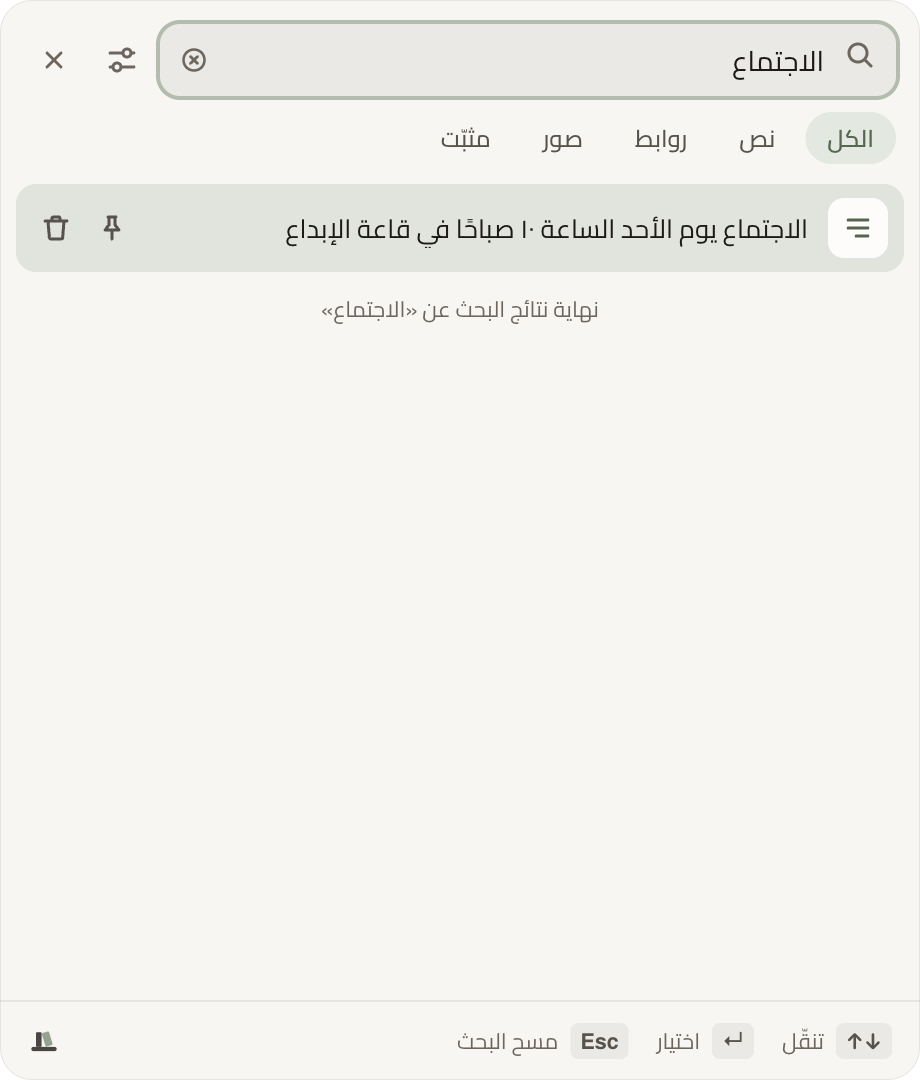
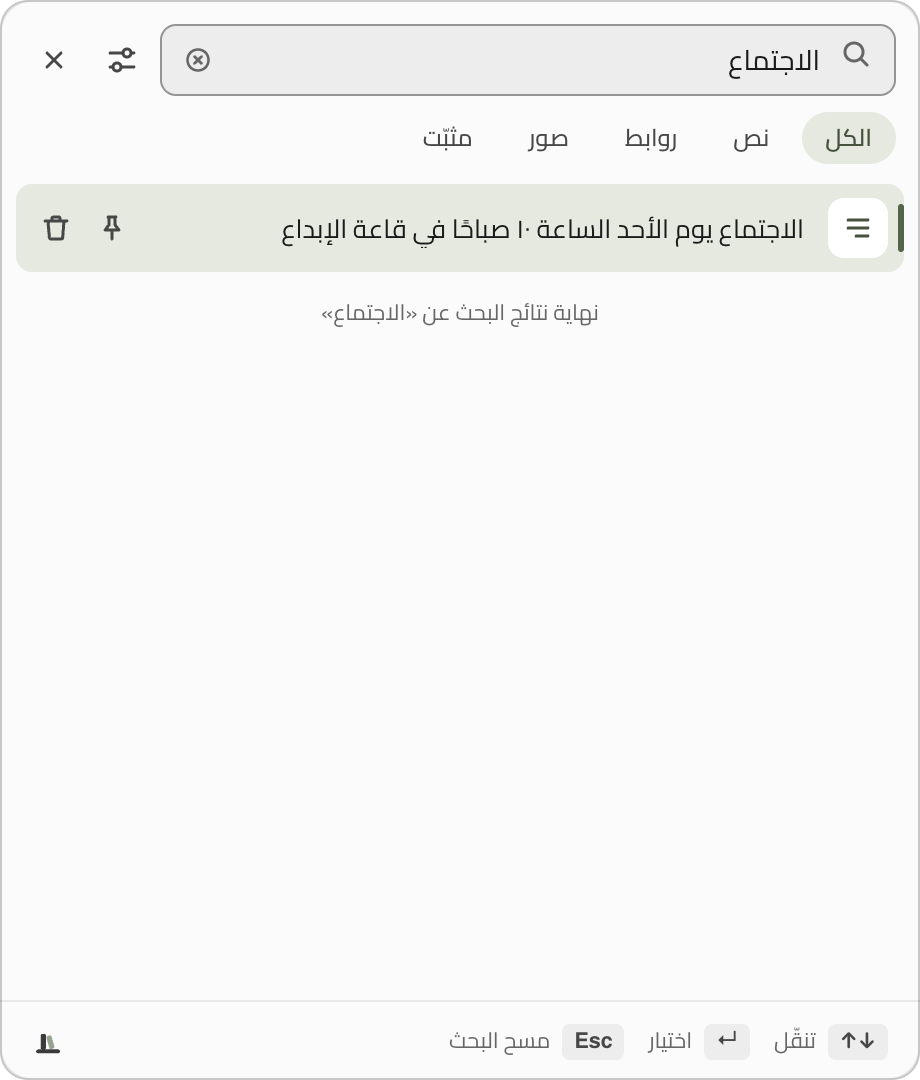
docs(readme): README بهوية رفّ 6.0.0 — الأصول والحالات والإبلاغ
- الهيدر وخطوات العمل وصورة المشاركة بألوان tokens.css الفعلية وأيقونة
  التطبيق الحالية، بالأبعاد نفسها وLight/Dark عبر <picture>.
- لقطات اللوحة واللصق السريع والبحث والإعدادات من واجهة 6.0.0 نفسها
  (بيانات المعاينة المصطنعة)، بنسخ داكنة لكلٍّ منها.
- قسم «أيقونة شريط القوائم» بحالاتها الأربع من menubar*.svg.
- «أبلغ عن مشكلة…» في الميزات واللقطات والاستخدام وقسم الإبلاغ: المعاينة،
  ورقم البلاغ، و«إعادة المحاولة» بلا تكرار، و«نسخ البلاغ».
- الخصوصية: الإرسال باختيارك، والمعاينة هي المرسَل، والتشخيص بلا محتوى،
  والصورة تُعاد كتابتها بلا بيانات وصفية. والترحيب بخطواته الخمس.

diff --git a/README.md b/README.md
@@ -7,10 +7,10 @@
   <img alt="رفّ — Raff: رفّك القريب لكل ما نسخت. افتحه بالاختصار ⇧⌘V والصق أي عنصر بـ ⌘1 إلى ⌘9" src="docs/assets/header-ar-light.png" width="100%">
 </picture>
 
-[![Release](https://img.shields.io/github/v/release/iSltanX/Raff?label=release&color=4D6A47&style=flat-square)](https://github.com/iSltanX/Raff/releases/latest)
-[![macOS 12+](https://img.shields.io/badge/macOS-12%2B%20%C2%B7%20Apple%20Silicon-1A2019?style=flat-square)](#المتطلبات)
-[![Privacy](https://img.shields.io/badge/privacy-no%20tracking-7C8C78?style=flat-square)](#الخصوصية)
-[![UI](https://img.shields.io/badge/UI-Arabic%20%C2%B7%20RTL-4D6A47?style=flat-square)](#الميزات)
+[![Release](https://img.shields.io/github/v/release/iSltanX/Raff?label=release&color=56644C&style=flat-square)](https://github.com/iSltanX/Raff/releases/latest)
+[![macOS 12+](https://img.shields.io/badge/macOS-12%2B%20%C2%B7%20Apple%20Silicon-1A1A1A?style=flat-square)](#المتطلبات)
+[![Privacy](https://img.shields.io/badge/privacy-no%20tracking-86947B?style=flat-square)](#الخصوصية)
+[![UI](https://img.shields.io/badge/UI-Arabic%20%C2%B7%20RTL-56644C?style=flat-square)](#الميزات)
 
 ### [⬇ تنزيل أحدث إصدار](https://github.com/iSltanX/Raff/releases/latest)
 
@@ -56,7 +56,18 @@
 - **خاص بالكامل.** بلا حساب ولا سحابة ولا تتبّع. ما تنسخه لا يغادر جهازك.
 - **يتجاهل كلمات المرور.** ما يعلّمه مديرو كلمات المرور محتوى سرّيًا لا يُحفظ أصلًا.
 - **تحت سيطرتك.** استثنِ تطبيقات بعينها، أو أوقف الالتقاط مؤقتًا، أو حدّد مدة الاحتفاظ بالسجل.
+- **يقول لك حين لا يحفظ.** أيقونة شريط القوائم تتغيّر مع حالة الالتقاط، واللوحة والإعدادات تعرض السبب وزرًّا واحدًا يعالجه.
+- **أبلغ عن مشكلة من داخل رفّ.** اكتب ما حدث وأرفق صورة إن شئت، وراجع كل ما سيُرسل قبل أن تؤكّد، ثم يظهر لك رقم البلاغ. وإن انقطع الاتصال: «إعادة المحاولة» دون أن يتكرر البلاغ، أو «نسخ البلاغ» لتلصقه حيث تشاء.
 - **عربي أصيل.** واجهة من اليمين إلى اليسار من الأساس، ووضعان فاتح وداكن يتبعان النظام.
+
+### أيقونة شريط القوائم
+
+<picture>
+  <source media="(prefers-color-scheme: dark)" srcset="docs/assets/menubar-states-ar-dark.png">
+  <img alt="أربع حالات لأيقونة رفّ في شريط القوائم: الالتقاط يعمل، متوقف مؤقتًا، متوقف، خطأ" src="docs/assets/menubar-states-ar-light.png" width="100%">
+</picture>
+
+الأيقونة نفسها تقول هل يحفظ رفّ ما تنسخه الآن. وقائمتها تبدأ بسطر الحالة، وتعرض الحل حين يلزم: «تفعيل الالتقاط» أو «إعادة تشغيل رفّ».
 
 ---
 
@@ -65,7 +76,7 @@
 1. نزّل ملف `Raff_…_aarch64.dmg` من [صفحة الإصدارات](https://github.com/iSltanX/Raff/releases/latest).
 2. افتحه واسحب **Raff** إلى مجلد **التطبيقات**.
 3. شغّل رفّ، وستجد أيقونته في **شريط القوائم**.
-4. في نافذة الترحيب: امنح إذن **تسهيلات الاستخدام** (للّصق التلقائي فقط)، واختر أن تبدأ الالتقاط أو تبقيه متوقفًا.
+4. نافذة الترحيب تعرّفك برفّ في خمس خطوات: الفكرة، وطريقة الفتح، ثم تقول لك إن رفّ يلتقط الآن وتسألك: **أبقِه يعمل** أو **أوقفه**. بعدها إذن **تسهيلات الاستخدام** اختياريًا (للّصق التلقائي فقط)، وأخيرًا ملخّص لما اخترته.
 
 </div>
 
@@ -108,8 +119,9 @@
 | مسح البحث، ثم الإغلاق | <kbd>Esc</kbd> |
 
 - النقر على عنصر يلصقه، والنقر مع <kbd>⌥</kbd> يلصقه نصًّا عاديًا.
-- النقر الأيمن على أيقونة شريط القوائم يفتح: الإيقاف المؤقت، والإعدادات، والتحقق من التحديثات، وعن رفّ.
-- التحديثات تصل من إصدارات هذا المستودع، وكل حزمة موقَّعة ويرفض التطبيق ما لا يطابق توقيعه.
+- النقر على أيقونة شريط القوائم يفتح اللوحة، والنقر الأيمن يفتح القائمة: سطر الحالة، و«فتح رفّ»، و«الالتقاط» (الإيقاف المؤقت والاستئناف)، و«الإعدادات…»، و«التحقق من التحديثات…»، و«أبلغ عن مشكلة…»، و«عن رفّ».
+- «عن رفّ» يعرض الإصدار، ويتحقق من التحديثات، ويفتح «أبلغ عن مشكلة…».
+- التحديثات تصل من إصدارات هذا المستودع في نافذة واحدة تعرض التحقق والتنزيل والتثبيت وإعادة التشغيل. كل حزمة موقَّعة، ويرفض التطبيق ما لا يطابق توقيعه.
 
 ---
 
@@ -126,14 +138,20 @@
       الأخير والمثبّت في مكان واحد، فوق ما تعمل عليه.
     </td>
     <td width="50%" align="center" valign="top">
-      <img alt="اللصق السريع بالأرقام" src="docs/assets/raff-quick-paste.png" width="100%"><br>
+      <picture>
+        <source media="(prefers-color-scheme: dark)" srcset="docs/assets/raff-quick-paste-dark.png">
+        <img alt="اللصق السريع بالأرقام" src="docs/assets/raff-quick-paste.png" width="100%">
+      </picture><br>
       <b>اللصق السريع</b><br>
       أمسك <kbd>⌘</kbd> لتظهر أرقام أول تسعة عناصر.
     </td>
   </tr>
   <tr>
     <td width="50%" align="center" valign="top">
-      <img alt="البحث الفوري" src="docs/assets/raff-search.png" width="100%"><br>
+      <picture>
+        <source media="(prefers-color-scheme: dark)" srcset="docs/assets/raff-search-dark.png">
+        <img alt="البحث الفوري" src="docs/assets/raff-search.png" width="100%">
+      </picture><br>
       <b>البحث</b><br>
       النتائج تتصفّى أثناء الكتابة، في النصوص والروابط والصور.
     </td>
@@ -143,7 +161,25 @@
         <img alt="إعدادات رفّ" src="docs/assets/raff-settings.png" width="100%">
       </picture><br>
       <b>الإعدادات</b><br>
-      حجم السجل، ومدة الاحتفاظ، والتطبيقات المستبعَدة، والاختصار.
+      عام، والالتقاط وحالته، والخصوصية، والتعلّم، وحول.
+    </td>
+  </tr>
+  <tr>
+    <td width="50%" align="center" valign="top">
+      <picture>
+        <source media="(prefers-color-scheme: dark)" srcset="docs/assets/raff-report-dark.png">
+        <img alt="معاينة البلاغ قبل الإرسال" src="docs/assets/raff-report-light.png" width="100%">
+      </picture><br>
+      <b>أبلغ عن مشكلة</b><br>
+      ترى كل ما سيُرسل قبل أن تؤكّد: الوصف، والصورة، ومعلومات التشخيص.
+    </td>
+    <td width="50%" align="center" valign="top">
+      <picture>
+        <source media="(prefers-color-scheme: dark)" srcset="docs/assets/raff-report-sent-dark.png">
+        <img alt="رقم البلاغ بعد وصوله" src="docs/assets/raff-report-sent-light.png" width="100%">
+      </picture><br>
+      <b>رقم البلاغ</b><br>
+      مرجعك الوحيد، بلا حساب ولا بريد.
     </td>
   </tr>
 </table>
@@ -154,6 +190,9 @@
 
 - **ما تنسخه لا يغادر جهازك.** لا يرسل رفّ شيئًا من حافظتك إلى أي مكان.
 - **الشبكة لأمرين فقط:** التحقق من التحديثات، وبلاغ عن مشكلة تكتبه أنت وترى كل ما فيه قبل أن تؤكّد إرساله.
+- **البلاغ باختيارك وحدك:** لا يُرسل شيء قبل أن تضغط «إرسال»، وما تراه في المعاينة هو ما يُرسل حرفًا بحرف، ومعه معلومات التشخيص نفسها.
+- **التشخيص بلا محتوى:** إصدار رفّ وmacOS، وحالة الالتقاط والإذن، وإعدادات عامة وأعداد. لا شيء من حافظتك، ولا أسماء تطبيقات أو ملفات.
+- **الصورة تُعاد كتابتها قبل الإرسال،** فتسقط بياناتها الوصفية (EXIF والموقع) واسم الملف.
 - **لا حساب، ولا مزامنة، ولا تتبّع، ولا تقارير أعطال تلقائية.**
 - **تخزين محلي تفهمه:** ملفات JSON وصور PNG في <span dir="ltr">`~/Library/Application Support/com.raff.app/`</span>، تفتحها أو تحذفها متى شئت.
 - **المحتوى السرّي والمؤقت لا يُحفظ،** والتطبيقات المستبعَدة لا يُلتقط ما يُنسخ منها وهي في الواجهة.
@@ -186,7 +225,7 @@
 <details>
 <summary><strong>كيف أوقفه مؤقتًا؟</strong></summary><br>
 
-النقر الأيمن على أيقونة شريط القوائم ← الإيقاف المؤقت: تخطّي النسخة التالية فقط، أو 15 دقيقة، أو ساعة، أو حتى إعادة التشغيل.
+النقر الأيمن على أيقونة شريط القوائم ← **الالتقاط**: «تجاهل النسخة التالية»، أو «إيقاف ١٥ دقيقة»، أو «إيقاف ساعة»، أو «إيقاف حتى إعادة التشغيل». تتغير الأيقونة ما دام الإيقاف قائمًا، والإيقاف المؤقت ينتهي في موعده وحده، و«استئناف الالتقاط» يعيده متى شئت.
 </details>
 
 <details>
@@ -233,7 +272,14 @@
 
 ## الإبلاغ عن مشكلة
 
-**من داخل رفّ:** «أبلغ عن مشكلة…» من قائمة أيقونة شريط القوائم، أو من **الإعدادات ← حول**. تكتب الوصف وترفق صورة إن شئت، ثم ترى البلاغ كاملًا — ومعه معلومات التشخيص حقلًا حقلًا — قبل أن تؤكّد إرساله. يصل إلى صندوق بلاغات خاص لا يراه غير المطوّر، ويعطيك رفّ رقمًا مرجعيًا. التفاصيل في [سياسة الخصوصية](PRIVACY.md#الإبلاغ-عن-مشكلة).
+**من داخل رفّ:** «أبلغ عن مشكلة…» من قائمة أيقونة شريط القوائم، أو من نافذة **عن رفّ**، أو من **الإعدادات ← حول**.
+
+1. اختر نوع البلاغ واكتب ما حدث، وأرفق صورة واحدة إن شئت: من ملف بـ «اختر صورة…» أو بلصقها في النافذة.
+2. «التالي: المعاينة» يعرض البلاغ كاملًا — ومعه معلومات التشخيص حقلًا حقلًا — قبل أن ترسله.
+3. «إرسال» يوصله إلى صندوق بلاغات خاص لا يراه غير المطوّر، ويظهر لك **رقم البلاغ**.
+4. إن تعذّر الاتصال: «إعادة المحاولة» ترسل البلاغ نفسه فلا يُسجَّل مرتين، و«نسخ البلاغ» يضعه على حافظتك.
+
+التفاصيل في [سياسة الخصوصية](PRIVACY.md#الإبلاغ-عن-مشكلة).
 
 **أو علنًا:** افتح مسألة في [صفحة المسائل](https://github.com/iSltanX/Raff/issues)، واذكر: إصدار رفّ (من **الإعدادات ← حول**)، وإصدار macOS، وخطوات إعادة المشكلة. يمكنك لصق ما ينسخه «نسخ» بجوار **معلومات التشخيص** في الإعدادات.
 
